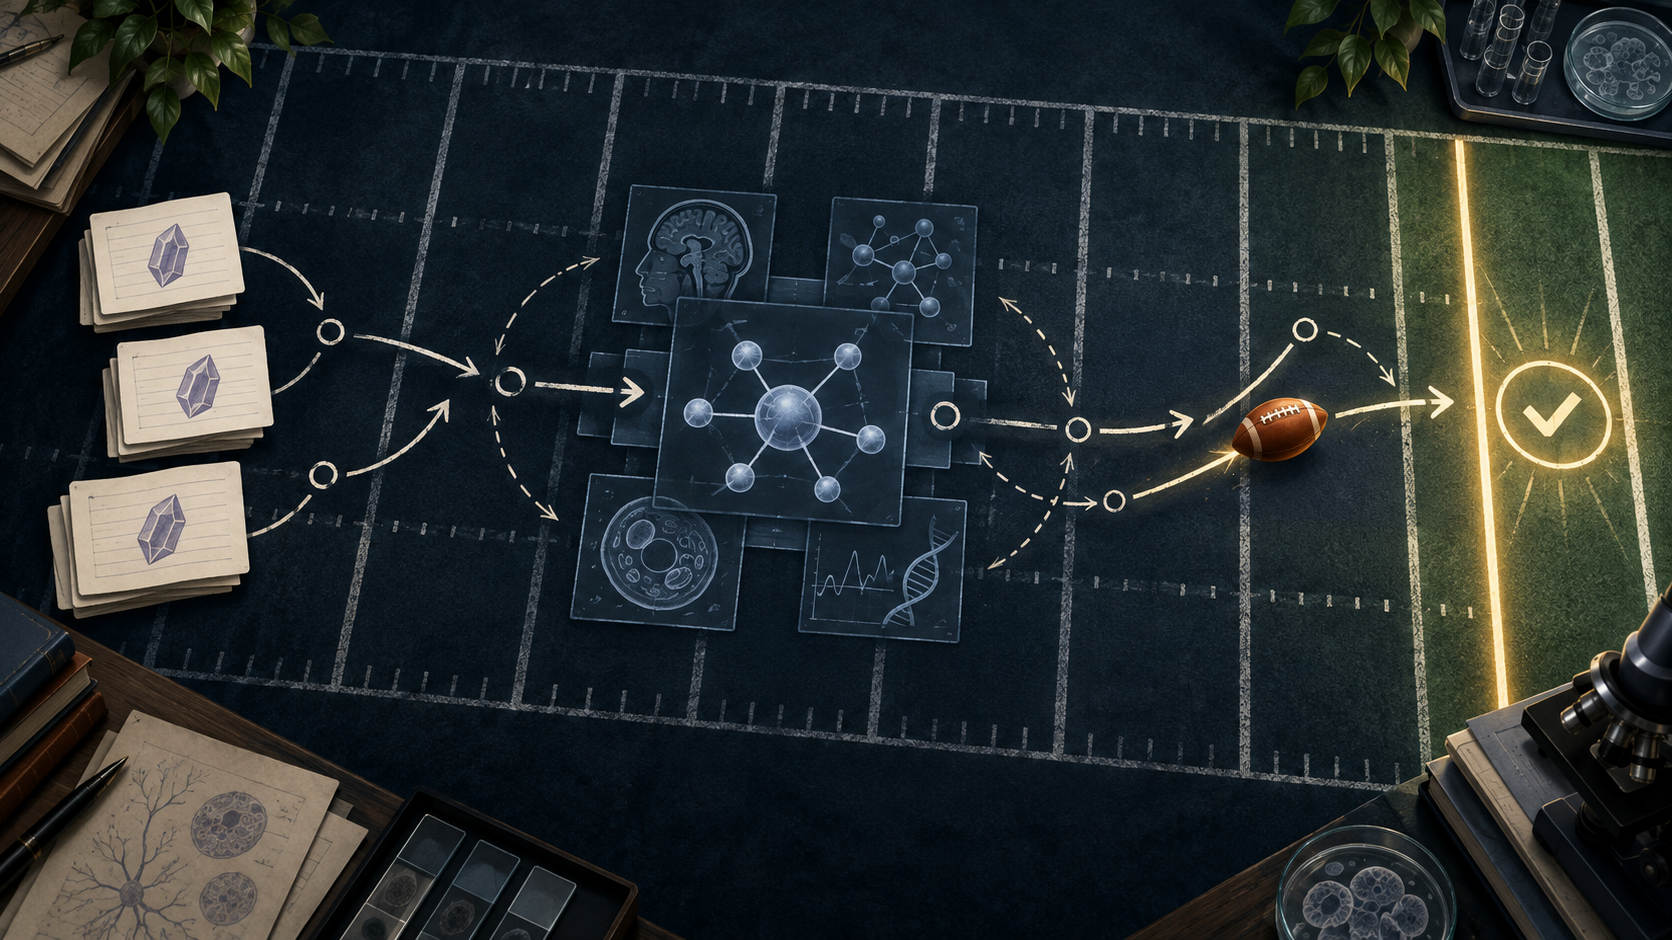
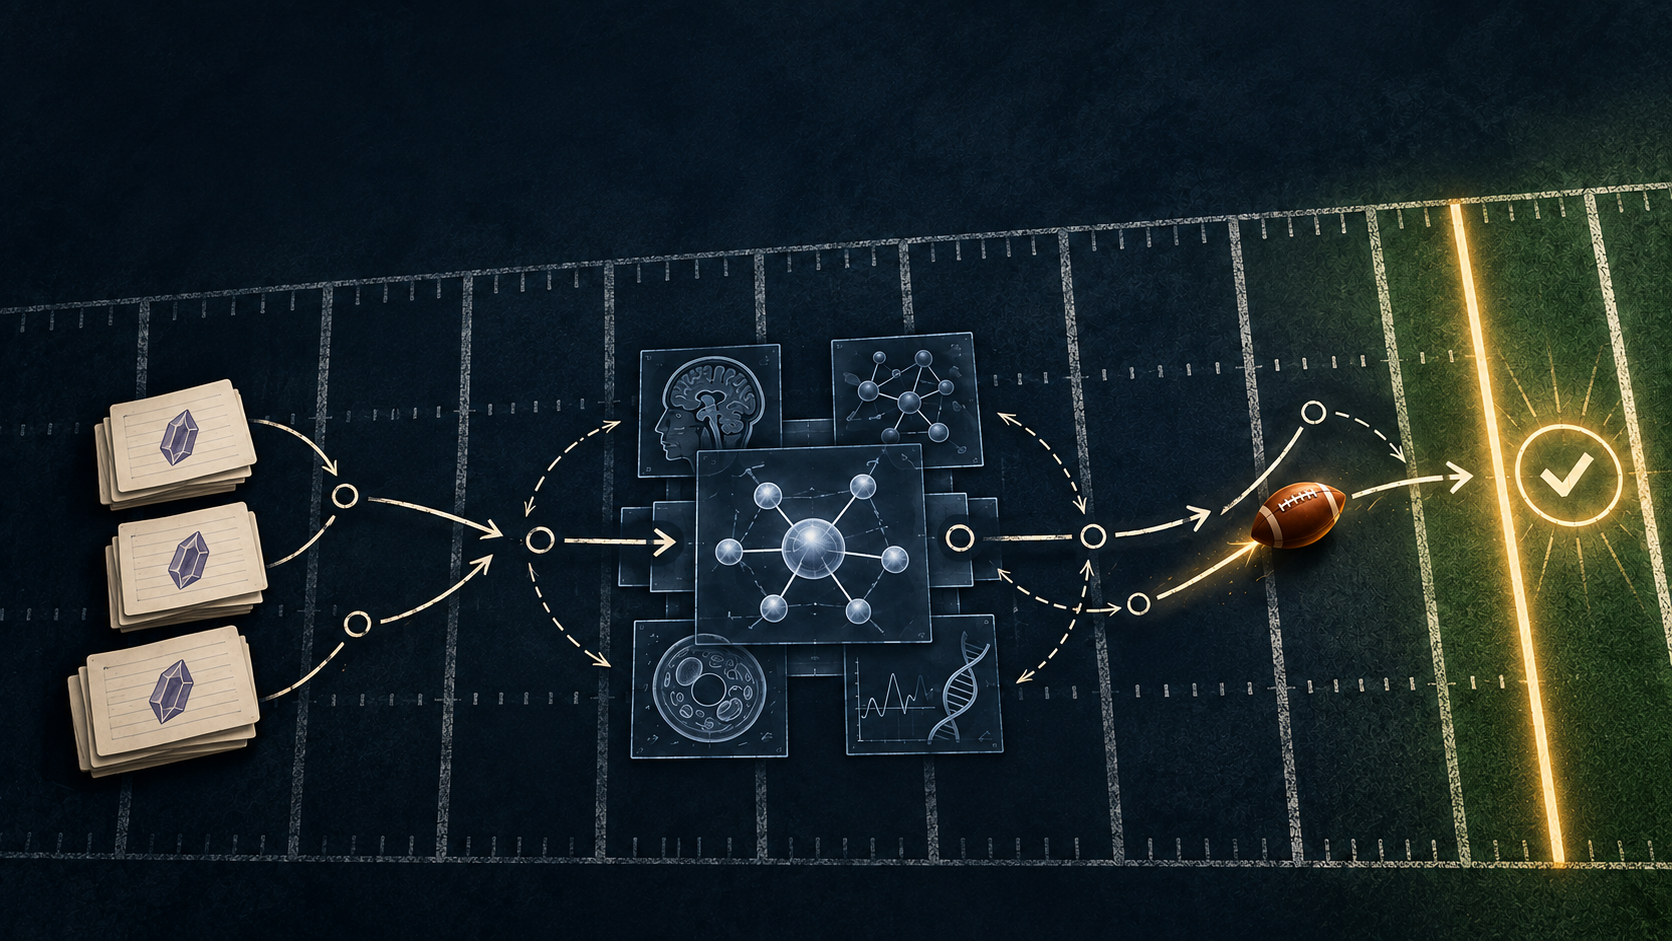
Refine hero visual and confirm public license boundary

diff --git a/docs/licensing.md b/docs/licensing.md
@@ -12,14 +12,14 @@ Reason: the project is intended to be reusable by other medical educators and re
 
 Keep original article drafts, personal brand material, screenshots, generated images, and third-party material outside the default MIT grant unless each item is explicitly marked otherwise. `CONTENT-NOTICE.md` records this boundary.
 
-## Current preview decision
+## Confirmed public-repository decision
 
 - Root license: MIT;
 - Content and asset boundary: `CONTENT-NOTICE.md`;
 - Copyright holder shown in the draft license: Ding Haixiang;
-- Before public push: confirm the displayed copyright name and whether any example image or article should use a different license.
+- The workflow layer is ready to be published under MIT.
+- The article drafts, personal brand material, scientific source material and generated hero image remain outside the default MIT grant unless separately marked.
 
 ## Not selected
 
 CC BY-NC was not selected for the workflow repository because the user's longer-term plan may include paid teaching, training, or workflow services. If a particular article or image should prohibit commercial reuse, mark that item separately rather than imposing NC on the entire workflow.
-

diff --git a/docs/public-audit.md b/docs/public-audit.md
@@ -22,11 +22,10 @@ Only `codex-obsidian-wechat-workflow-preview/` was audited. The parent workspace
 
 ## Blockers before public push
 
-- [ ] Confirm the copyright holder name in `LICENSE`.
-- [ ] Decide whether the original article and Image Gen assets are included, excluded, or separately licensed.
-- [ ] Decide whether `docs/assets/workflow-hero.png` is included, excluded, or separately licensed.
+- [x] Copyright holder name in `LICENSE` is set to Ding Haixiang.
+- [x] The generated hero image is included with a separate non-MIT asset notice; original article and third-party material remain excluded.
 - [ ] Re-run a release scan after any final content or asset changes.
-- [ ] User confirms repository name, visibility, license and push.
+- [x] User confirmed a public repository and MIT for the workflow layer.
 
 ## Important boundary
 

diff --git a/CONTENT-NOTICE.md b/CONTENT-NOTICE.md
@@ -14,4 +14,4 @@ Before publishing a sample article or image on GitHub, confirm its source, reuse
 
 ## Preview asset record
 
-- `docs/assets/workflow-hero.png`: no-text hero illustration generated for this local preview with the requested medical-research and American-football-playbook visual direction. It is not assumed to be covered by the repository MIT license; retain the generation record and decide its public reuse terms before pushing.
+- `docs/assets/workflow-hero.png`: no-text hero illustration generated for this project with the requested medical-research and American-football-playbook visual direction. It is included as a project visual, but is not covered by the repository MIT license; reuse outside this repository requires separate permission.
